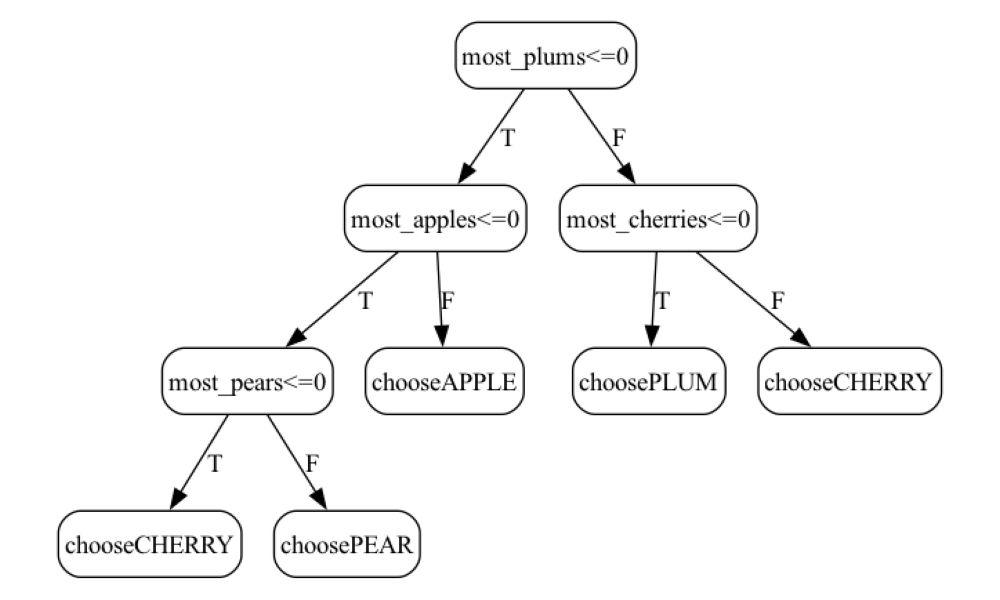
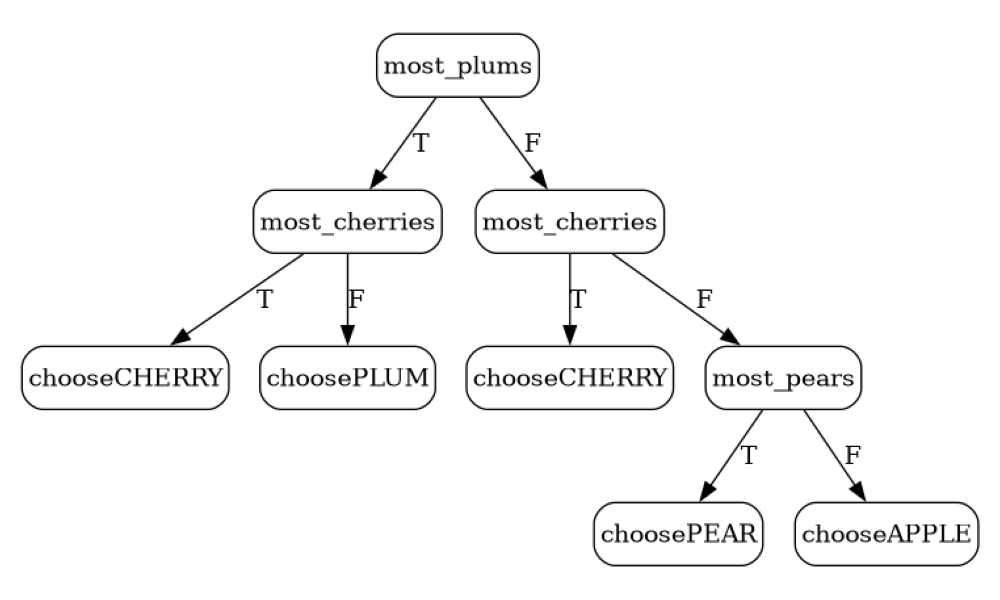
Enabled Paynt again (#13)

diff --git a/tutorial_orchard/README.md b/tutorial_orchard/README.md
@@ -4,8 +4,7 @@ This folder contains material for the Storm tutorial at [FM 2026](https://conf.r
 We provide the Jupyter notebooks as well as model files.
 
 ## Versions
-The notebooks in this folder use [stormpy](https://github.com/stormchecker/stormpy) 2.0 and [stormvogel](https://github.com/stormchecker/stormvogel) 0.13.
-The decision tree synthesis with [PAYNT](https://github.com/randriu/synthesis) in `3-policies.ipynb` is currently disabled, as PAYNT does not yet support stormpy 2.0.
+The notebooks in this folder use [stormpy](https://github.com/stormchecker/stormpy) 2.0, [stormvogel](https://github.com/stormchecker/stormvogel) 0.13 and [PAYNT](https://github.com/randriu/synthesis) 0.5.
 
 The version matching the tutorial paper (using stormpy 1.12) is available under the git tag [fm2026](https://github.com/stormchecker/stormpyter/tree/fm2026/tutorial_orchard) or as an [artifact on Zenodo](https://doi.org/10.5281/zenodo.18955665).
 
